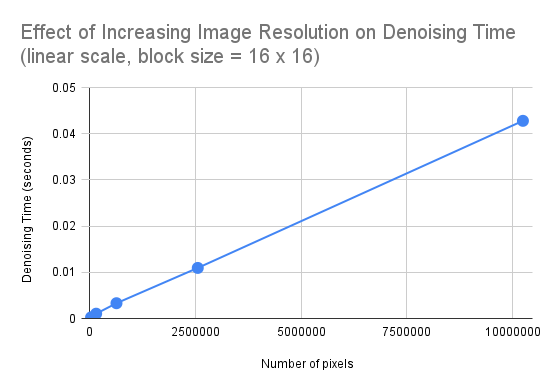
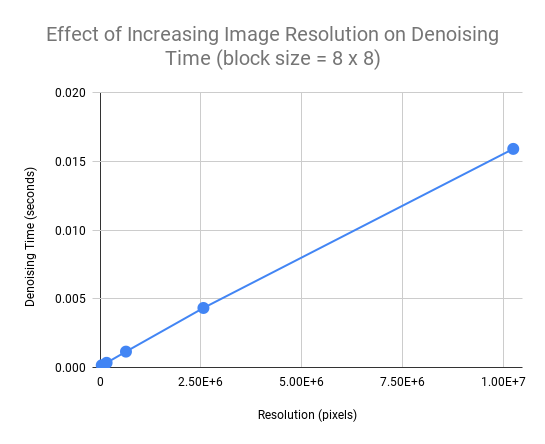
fix testing method, shouldn't measure write to pbo and cuda memcpy

Changed region(s): [[0.0312, 0.0615, 0.9982, 0.8923], [0.0312, 0.3385, 0.0624, 0.7385], [0.4679, 0.9231, 0.655, 0.9538]]

diff --git a/src/main.cpp b/src/main.cpp
@@ -7,8 +7,6 @@
 #include "../imgui/imgui_impl_glfw.h"
 #include "../imgui/imgui_impl_opengl3.h"
 
-#define MEASURE_DENOISE_PERF 1
-
 static std::string startTimeString;
 
 // For camera controls
@@ -188,8 +186,8 @@ void runCuda() {
       std::chrono::duration<double> pathtraceTime = pathtraceEnd - pathtraceStart;
       std::cout << "Total path-trace run-time (seconds): " << pathtraceTime.count() << std::endl;
 
-      for (int i = 4; i <= 32; i <<= 1) {
-        for (int j = 4; j <= 32; j <<= 1) {
+      for (int i = 16; i <= 16; i <<= 1) {
+        for (int j = 16; j <= 16; j <<= 1) {
 
           std::cout << "BLOCK SIZE is (" << i << ", " << j << ")" << std::endl;
 

diff --git a/src/sceneStructs.h b/src/sceneStructs.h
@@ -6,6 +6,7 @@
 #include "glm/glm.hpp"
 
 #define BACKGROUND_COLOR (glm::vec3(0.0f))
+#define MEASURE_DENOISE_PERF 0
 
 enum GeomType {
     SPHERE,

diff --git a/README.md b/README.md
@@ -52,20 +52,22 @@ When the `MEASURE_DENOISE_PERF` flag is set to 0, each iteration is denoised for
 
 I measured the total render time (from `pathtraceInit`, up to but not including `pathtraceFree`), the g-buffer initialization time, and the denoising time. The path-tracing time is calculated by subtracting g-buffer and denoise from the total render time.
 
+#### Results
 The measurements show that denoising, including g-buffer generation are both very fast compared to path-tracing for 10 iterations. The results would be even more skewed as we increase the number of iterations.
 
 ![](img/graphs/Effect%20of%20Denoising%20Step%20on%20Total%20Path-tracing%20Time.png)
 
-We can also look at how the denoising time is affected by the image resolution. These results were tested on the cornell with ceiling light scene, with `filterSize = 80, colorWeight = 0.4, normalWeight = 0.35, positionWeight = 0.2`, and a block size of 16 x 16. I also implemented a version of the performance test where I grid-searched for the best block size (from 4 x 4 to 32 x 32), but found that the trend was almost exactly the same (see [graph](img/graphs/Effect%20of%20Increasing%20Image%20Resolution%20on%20Denoising%20Time%20with%20Variable%20Block%20Size.png)).
+We can also look at how the denoising time is affected by the image resolution. These results were tested on the cornell with ceiling light scene, with `filterSize = 80, colorWeight = 0.4, normalWeight = 0.35, positionWeight = 0.2`, and a block size of 16 x 16. G-buffer construction time is still negligible. I also implemented a version of the performance test where I grid-searched for the best block size (from 4 x 4 to 32 x 32), but found that the trend was almost exactly the same (see [graph](img/graphs/Effect%20of%20Increasing%20Image%20Resolution%20on%20Denoising%20Time%20with%20Variable%20Block%20Size.png)).
 
-| Resolution (pixels) | Denoising Time (seconds) | Percent of Total Render Time |
+| Resolution (pixels) | Denoising Time (seconds) | Percent of Time to Render 10 Iterations |
 | --|--|--|
-| 200 x 200|0.0002472 | 0.17% |
-| 400 x 400|0.0010406 | 0.67% |
-| 800 x 800|0.0033077 | 1.81% |
-| 1600 x 1600|0.0109472 | 3.42% |
-| 3200 x 3200|0.0427842 | 5.13% |
+| 200 x 200| 0.0001851 | 0.13% |
+| 400 x 400| 0.0003627 | 0.24% |
+| 800 x 800| 0.001175 | 0.68% |
+| 1600 x 1600| 0.0043464 | 1.34% |
+| 3200 x 3200 |0.0159033 | 2.03% |
 
 Plotting the results shows that the denoising time increases almost perfectly linearly with respect to the number of pixels. In comparison, the other path-tracing steps do not scale linearly as resolution increases, so the total proportion of time spent denoising increases, making denoising a bottleneck.
 
 ![](img/graphs/Effect%20of%20Increasing%20Image%20Resolution%20on%20Denoising%20Time%20(linear%20scale%2C%20block%20size%20%3D%2016%20x%2016).png)
+
